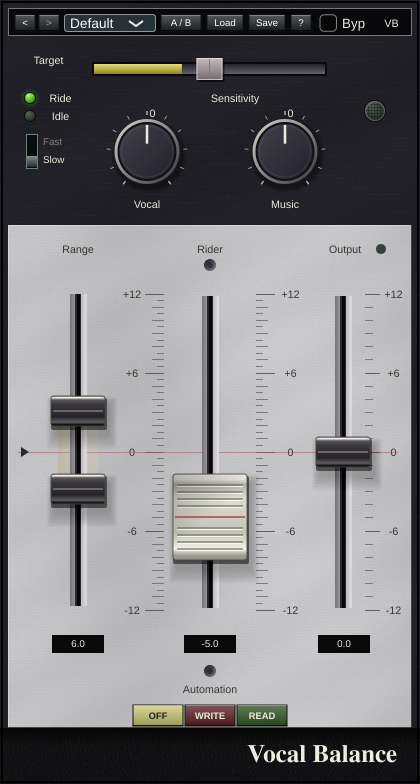
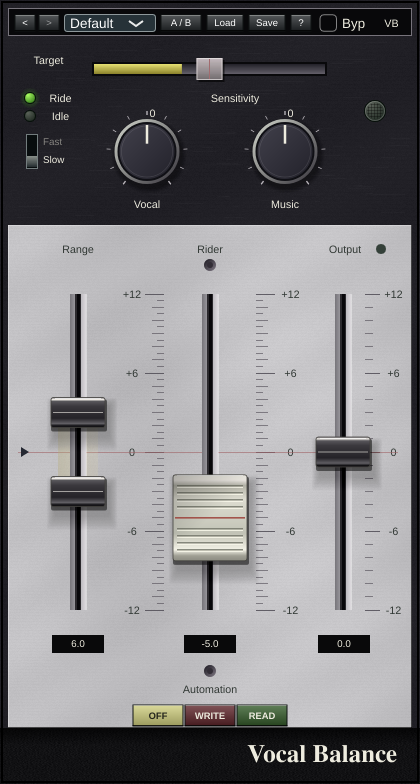
Preserve full fader shadows at limits and drive REAPER startup via native window messages

diff --git a/Source/PluginEditor.cpp b/Source/PluginEditor.cpp
@@ -7,16 +7,16 @@ void setParameter(juce::AudioProcessorValueTreeState& state, const char* id, flo
 }
 }
 void RangeBand::paint(juce::Graphics& g) {
-    const float x=getWidth()*.5f,height=getHeight()-24.f;
+    const float x=getWidth()*.5f,height=getHeight()-70.f;
     const float low=processor.state.getRawParameterValue("lower")->load(),high=processor.state.getRawParameterValue("upper")->load();
-    const auto position=[&](float db){return 10+(12-db)*height/24;};
+    const auto position=[&](float db){return 35+(12-db)*height/24;};
     g.setGradientFill(juce::ColourGradient(juce::Colour{0xffb7ad78}.withAlpha(.35f),x-20,0,juce::Colour{0xffefdf9f}.withAlpha(.14f),x+20,0,false));
     g.fillRect(x-20,position(high),40.f,std::max(0.f,position(low)-position(high)));
-    HardwareLookAndFeel::drawFaderTrack(g,x,10,height+10);
+    HardwareLookAndFeel::drawFaderTrack(g,x,35,height+35);
     for(float value:{low,high}) HardwareLookAndFeel::drawFaderCap(g,{x-27,position(value)-15,54,30},false);
 }
 void RangeBand::mouseDown(const juce::MouseEvent& event) {
-    const float value = 12 - (event.position.y-10)*24/(getHeight()-24);
+    const float value = 12 - (event.position.y-35)*24/(getHeight()-70);
     const float low=processor.state.getRawParameterValue("lower")->load(), high=processor.state.getRawParameterValue("upper")->load();
     lowerHandle = std::abs(value-low) < std::abs(value-high);
     dragging = processor.state.getParameter(lowerHandle ? "lower" : "upper");
@@ -24,7 +24,7 @@ void RangeBand::mouseDown(const juce::MouseEvent& event) {
 }
 void RangeBand::mouseDrag(const juce::MouseEvent& event) {
     if (!dragging) return;
-    float value = juce::jlimit(-12.0f,12.0f,12-(event.position.y-10)*24/(getHeight()-24));
+    float value = juce::jlimit(-12.0f,12.0f,12-(event.position.y-35)*24/(getHeight()-70));
     if (lowerHandle) value = std::min(value, processor.state.getRawParameterValue("upper")->load()-1);
     else value = std::max(value, processor.state.getRawParameterValue("lower")->load()+1);
     dragging->setValueNotifyingHost(dragging->convertTo0to1(value)); repaint();
@@ -121,7 +121,7 @@ void VocalBalanceAudioProcessorEditor::resized(){
     for(size_t i=0;i<toolbar.size();++i)toolbar[i].setBounds(x[i],14,widths[i],18);
     presets.setBounds(64,14,92,18);bypass.setBounds(316,13,62,20);
     controls[0].setBounds(82,49,255,40);controls[1].setBounds(102,107,90,89);controls[2].setBounds(240,107,90,89);attack.setBounds(23,132,70,39);
-    range.setBounds(26,284,104,336);controls[3].setBounds(154,284,112,336);controls[4].setBounds(300,284,86,336);controls[5].setBounds(18,284,25,336);
+    range.setBounds(26,259,104,386);controls[3].setBounds(154,238,112,428);controls[4].setBounds(300,260,86,384);controls[5].setBounds(18,284,25,336);
     for(int i=0;i<3;++i)modeButtons[static_cast<size_t>(i)].setBounds(132+i*52,704,52,23);
 }
 void VocalBalanceAudioProcessorEditor::paint(juce::Graphics& g){

diff --git a/tests/ReaperDiscovery.cpp b/tests/ReaperDiscovery.cpp
@@ -50,9 +50,11 @@ void tick() {
 }
 extern "C" REAPER_PLUGIN_DLL_EXPORT int REAPER_PLUGIN_ENTRYPOINT(REAPER_PLUGIN_HINSTANCE, reaper_plugin_info_t* info) {
     if (!info) { if (host) host->Register("-timer", reinterpret_cast<void*>(tick)); host = nullptr; return 0; }
-    if (info->caller_version != REAPER_PLUGIN_VERSION) return 0;
+
     char path[32768]{}; if (!GetEnvironmentVariableA("VOCAL_BALANCE_REAPER_REPORT", path, sizeof(path))) return 0;
     report = path; host = info;
+    { std::ofstream marker(report + ".loaded"); marker << "Entry version " << info->caller_version << "; expected " << REAPER_PLUGIN_VERSION; }
+    if (info->caller_version != REAPER_PLUGIN_VERSION) return 0;
     enumerate = reinterpret_cast<decltype(enumerate)>(info->GetFunc("EnumInstalledFX"));
     version = reinterpret_cast<decltype(version)>(info->GetFunc("GetAppVersion"));
     insertTrack = reinterpret_cast<decltype(insertTrack)>(info->GetFunc("InsertTrackAtIndex"));

diff --git a/Source/UI/HardwareLookAndFeel.cpp b/Source/UI/HardwareLookAndFeel.cpp
@@ -1,5 +1,13 @@
 #include "HardwareLookAndFeel.h"
 namespace { const juce::Colour dark{0xff20282c}, ivory{0xffeeecdf}; }
+juce::Slider::SliderLayout HardwareLookAndFeel::getSliderLayout(juce::Slider& slider) {
+    auto layout=juce::LookAndFeel_V4::getSliderLayout(slider);
+    if(slider.getSliderStyle()==juce::Slider::LinearVertical){
+        const int margin=slider.getName()=="rider"?56:(slider.getName()=="output"?34:10);
+        layout.sliderBounds=slider.getLocalBounds().reduced(0,margin);
+    }
+    return layout;
+}
 void HardwareLookAndFeel::drawButtonBackground(juce::Graphics& g,juce::Button& b,const juce::Colour& colour,bool hover,bool down) {
  auto r=b.getLocalBounds().toFloat().reduced(.5f);
  if(b.getName()=="attack-switch") {

diff --git a/Source/UI/HardwareLookAndFeel.h b/Source/UI/HardwareLookAndFeel.h
@@ -2,6 +2,7 @@
 #include <juce_gui_basics/juce_gui_basics.h>
 class HardwareLookAndFeel final : public juce::LookAndFeel_V4 {
 public:
+    juce::Slider::SliderLayout getSliderLayout(juce::Slider&) override;
     static void drawFaderCap(juce::Graphics&, juce::Rectangle<float>, bool rider);
     static void drawFaderTrack(juce::Graphics&, float centre, float top, float bottom);
     void drawButtonBackground(juce::Graphics&, juce::Button&, const juce::Colour&, bool, bool) override;
